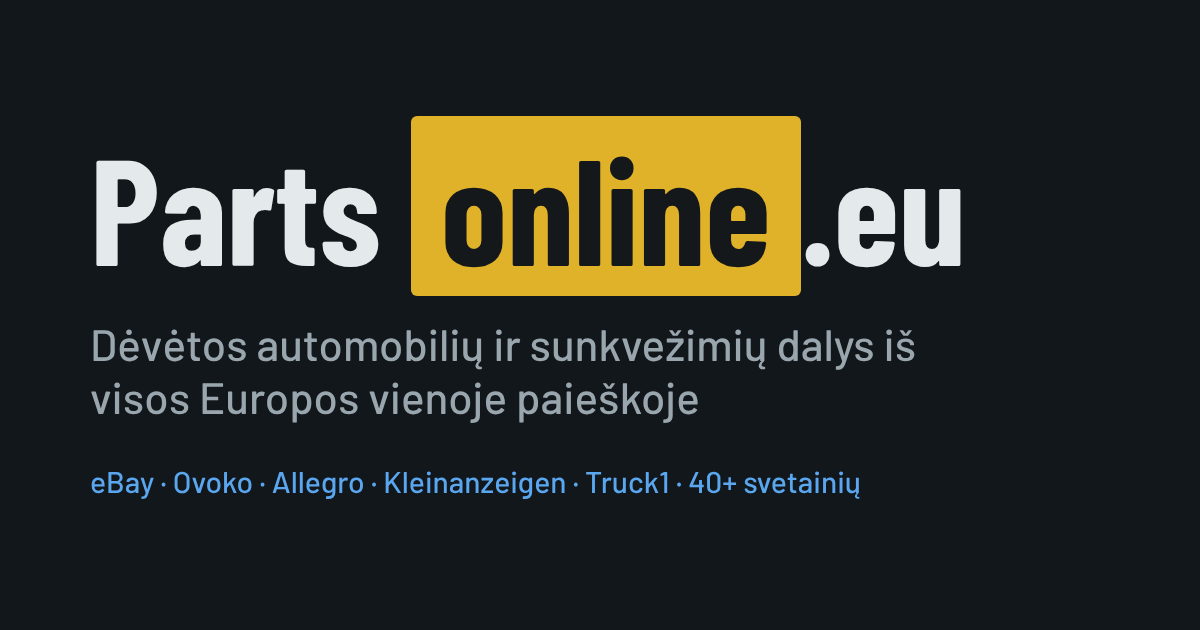
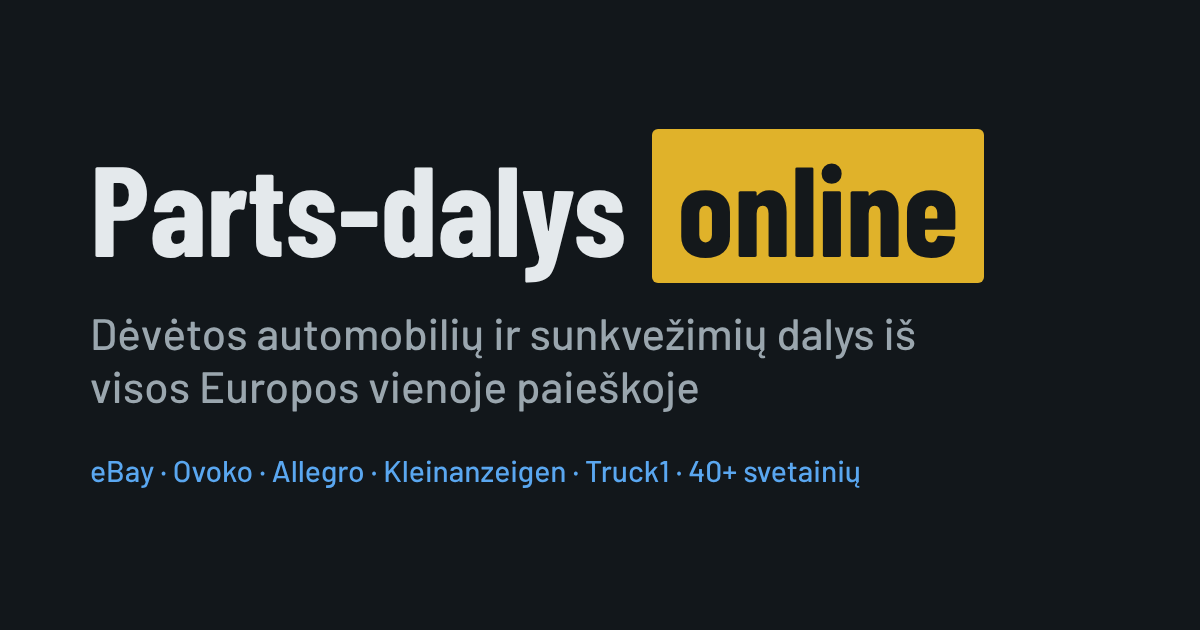
Rename site to Parts-dalys online
Claude-Session: https://claude.ai/code/session_01UNrUfuVYBVuLXoXYuXDMci

Changed region(s): [[0.0617, 0.181, 0.8325, 0.4825], [0.0617, 0.5127, 0.7708, 0.6635], [0.0617, 0.7238, 0.74, 0.7841]]

diff --git a/public/apie.html b/public/apie.html
@@ -3,12 +3,12 @@
 <head>
 <meta charset="utf-8">
 <meta name="viewport" content="width=device-width, initial-scale=1">
-<title>Apie – Parts online.eu</title>
-<meta name="description" content="Kas yra Parts online.eu, iš kur gaunami skelbimai, kaip skaičiuojamos kainos ir kaip su mumis susisiekti.">
+<title>Apie – Parts-dalys online</title>
+<meta name="description" content="Kas yra Parts-dalys online, iš kur gaunami skelbimai, kaip skaičiuojamos kainos ir kaip su mumis susisiekti.">
 <meta property="og:type" content="website">
 <meta property="og:locale" content="lt_LT">
-<meta property="og:site_name" content="Parts online.eu">
-<meta property="og:title" content="Apie Parts online.eu">
+<meta property="og:site_name" content="Parts-dalys online">
+<meta property="og:title" content="Apie Parts-dalys online">
 <meta property="og:description" content="Dėvėtų automobilių ir sunkvežimių dalių paieška per daugelį Europos ir pasaulio svetainių.">
 <meta property="og:image" content="/favicon.svg">
 <meta name="theme-color" content="#eef1f2" media="(prefers-color-scheme: light)">
@@ -23,12 +23,12 @@
 <body>
 <div class="wrap">
   <header>
-    <a class="brand" href="/">Parts <span>online</span>.eu</a>
+    <a class="brand" href="/">Parts-dalys <span>online</span></a>
   </header>
 
   <main class="prose">
     <h1>Apie</h1>
-    <p>Parts online.eu – tai viena paieška per dėvėtų lengvųjų automobilių ir sunkvežimių dalių skelbimus Europoje ir pasaulyje. Įrašote detalės pavadinimą arba OEM numerį lietuviškai, o mes užklausą išverčiame į kitas kalbas, vienu metu paklausiame kelių šaltinių ir parodome rezultatus vienoje vietoje, surikiuotus nuo pigiausio su pristatymu.</p>
+    <p>Parts-dalys online – tai viena paieška per dėvėtų lengvųjų automobilių ir sunkvežimių dalių skelbimus Europoje ir pasaulyje. Įrašote detalės pavadinimą arba OEM numerį lietuviškai, o mes užklausą išverčiame į kitas kalbas, vienu metu paklausiame kelių šaltinių ir parodome rezultatus vienoje vietoje, surikiuotus nuo pigiausio su pristatymu.</p>
 
     <h2>Iš kur skelbimai</h2>
     <ul>
@@ -53,7 +53,7 @@
   </main>
 
   <footer>
-    <span>© Parts online.eu · kainos orientacinės, pirkimas vyksta pardavėjo svetainėje</span>
+    <span>© Parts-dalys online · kainos orientacinės, pirkimas vyksta pardavėjo svetainėje</span>
     <nav aria-label="Papildoma"><a href="/">Paieška</a><a href="/apie.html">Apie</a></nav>
   </footer>
 </div>

diff --git a/public/index.html b/public/index.html
@@ -3,14 +3,14 @@
 <head>
 <meta charset="utf-8">
 <meta name="viewport" content="width=device-width, initial-scale=1">
-<title>Parts online.eu – dėvėtų automobilių ir sunkvežimių dalių paieška</title>
+<title>Parts-dalys online – dėvėtų automobilių ir sunkvežimių dalių paieška</title>
 <meta name="description" content="Viena paieška per dėvėtų automobilių ir sunkvežimių dalių skelbimus Europoje ir pasaulyje. Kainos perskaičiuotos į eurus su pristatymu.">
 <meta name="theme-color" content="#eef1f2" media="(prefers-color-scheme: light)">
 <meta name="theme-color" content="#12171b" media="(prefers-color-scheme: dark)">
 <meta property="og:type" content="website">
 <meta property="og:locale" content="lt_LT">
-<meta property="og:site_name" content="Parts online.eu">
-<meta property="og:title" content="Parts online.eu – dėvėtos auto dalys iš visos Europos">
+<meta property="og:site_name" content="Parts-dalys online">
+<meta property="og:title" content="Parts-dalys online – dėvėtos auto dalys iš visos Europos">
 <meta property="og:description" content="Ieškokite dėvėtų lengvųjų ir krovininių automobilių dalių eBay, ardymo įmonių ir skelbimų svetainėse vienu metu. Kainos eurais.">
 <meta property="og:image" content="/og.png">
 <meta property="og:image:width" content="1200">
@@ -27,7 +27,7 @@
 <a class="skip" href="#rezultatai">Pereiti prie rezultatų</a>
 <div class="wrap">
   <header>
-    <a class="brand" href="/">Parts <span>online</span>.eu</a>
+    <a class="brand" href="/">Parts-dalys <span>online</span></a>
     <p class="sub">Dėvėtos automobilių ir sunkvežimių dalys iš visos Europos ir pasaulio vienoje vietoje. Kainos perskaičiuotos į eurus.</p>
   </header>
 
@@ -72,7 +72,7 @@
   </main>
 
   <footer>
-    <span>© Parts online.eu · kainos orientacinės, pirkimas vyksta pardavėjo svetainėje</span>
+    <span>© Parts-dalys online · kainos orientacinės, pirkimas vyksta pardavėjo svetainėje</span>
     <nav aria-label="Papildoma"><a href="/apie.html">Apie</a><a href="/apie.html#kontaktai">Kontaktai</a></nav>
   </footer>
 </div>

diff --git a/src/server.js b/src/server.js
@@ -146,7 +146,7 @@ export function createApp(adapters = buildAdapters(), { rateLimit = 30, rateWind
 if (process.argv[1] === fileURLToPath(import.meta.url)) {
   const port = Number(process.env.PORT) || 3000;
   const app = createApp();
-  app.listen(port, () => console.log(`Parts online.eu: http://localhost:${port}`));
+  app.listen(port, () => console.log(`Parts-dalys online: http://localhost:${port}`));
   const stop = (sig) => {
     console.log(`${sig}: stabdoma`);
     app.close(() => process.exit(0));

diff --git a/public/app.js b/public/app.js
@@ -1,4 +1,4 @@
-// Page script for Parts online.eu. Loaded as a module so it works under a strict CSP.
+// Page script for Parts-dalys online. Loaded as a module so it works under a strict CSP.
 import { SOURCES, REGIONS, VT } from "/shared/sources.js";
 import { translate, LANGS } from "/shared/translate.js";
 

diff --git a/README.md b/README.md
@@ -1,4 +1,4 @@
-# Parts online.eu
+# Parts-dalys online
 
 Viena paieška per dėvėtų automobilių ir sunkvežimių dalių skelbimus Europoje ir pasaulyje. Serveris vienu metu klausia kelių šaltinių, kainas perskaičiuoja į eurus (ECB kursas) ir surikiuoja nuo pigiausios su pristatymu.
 
